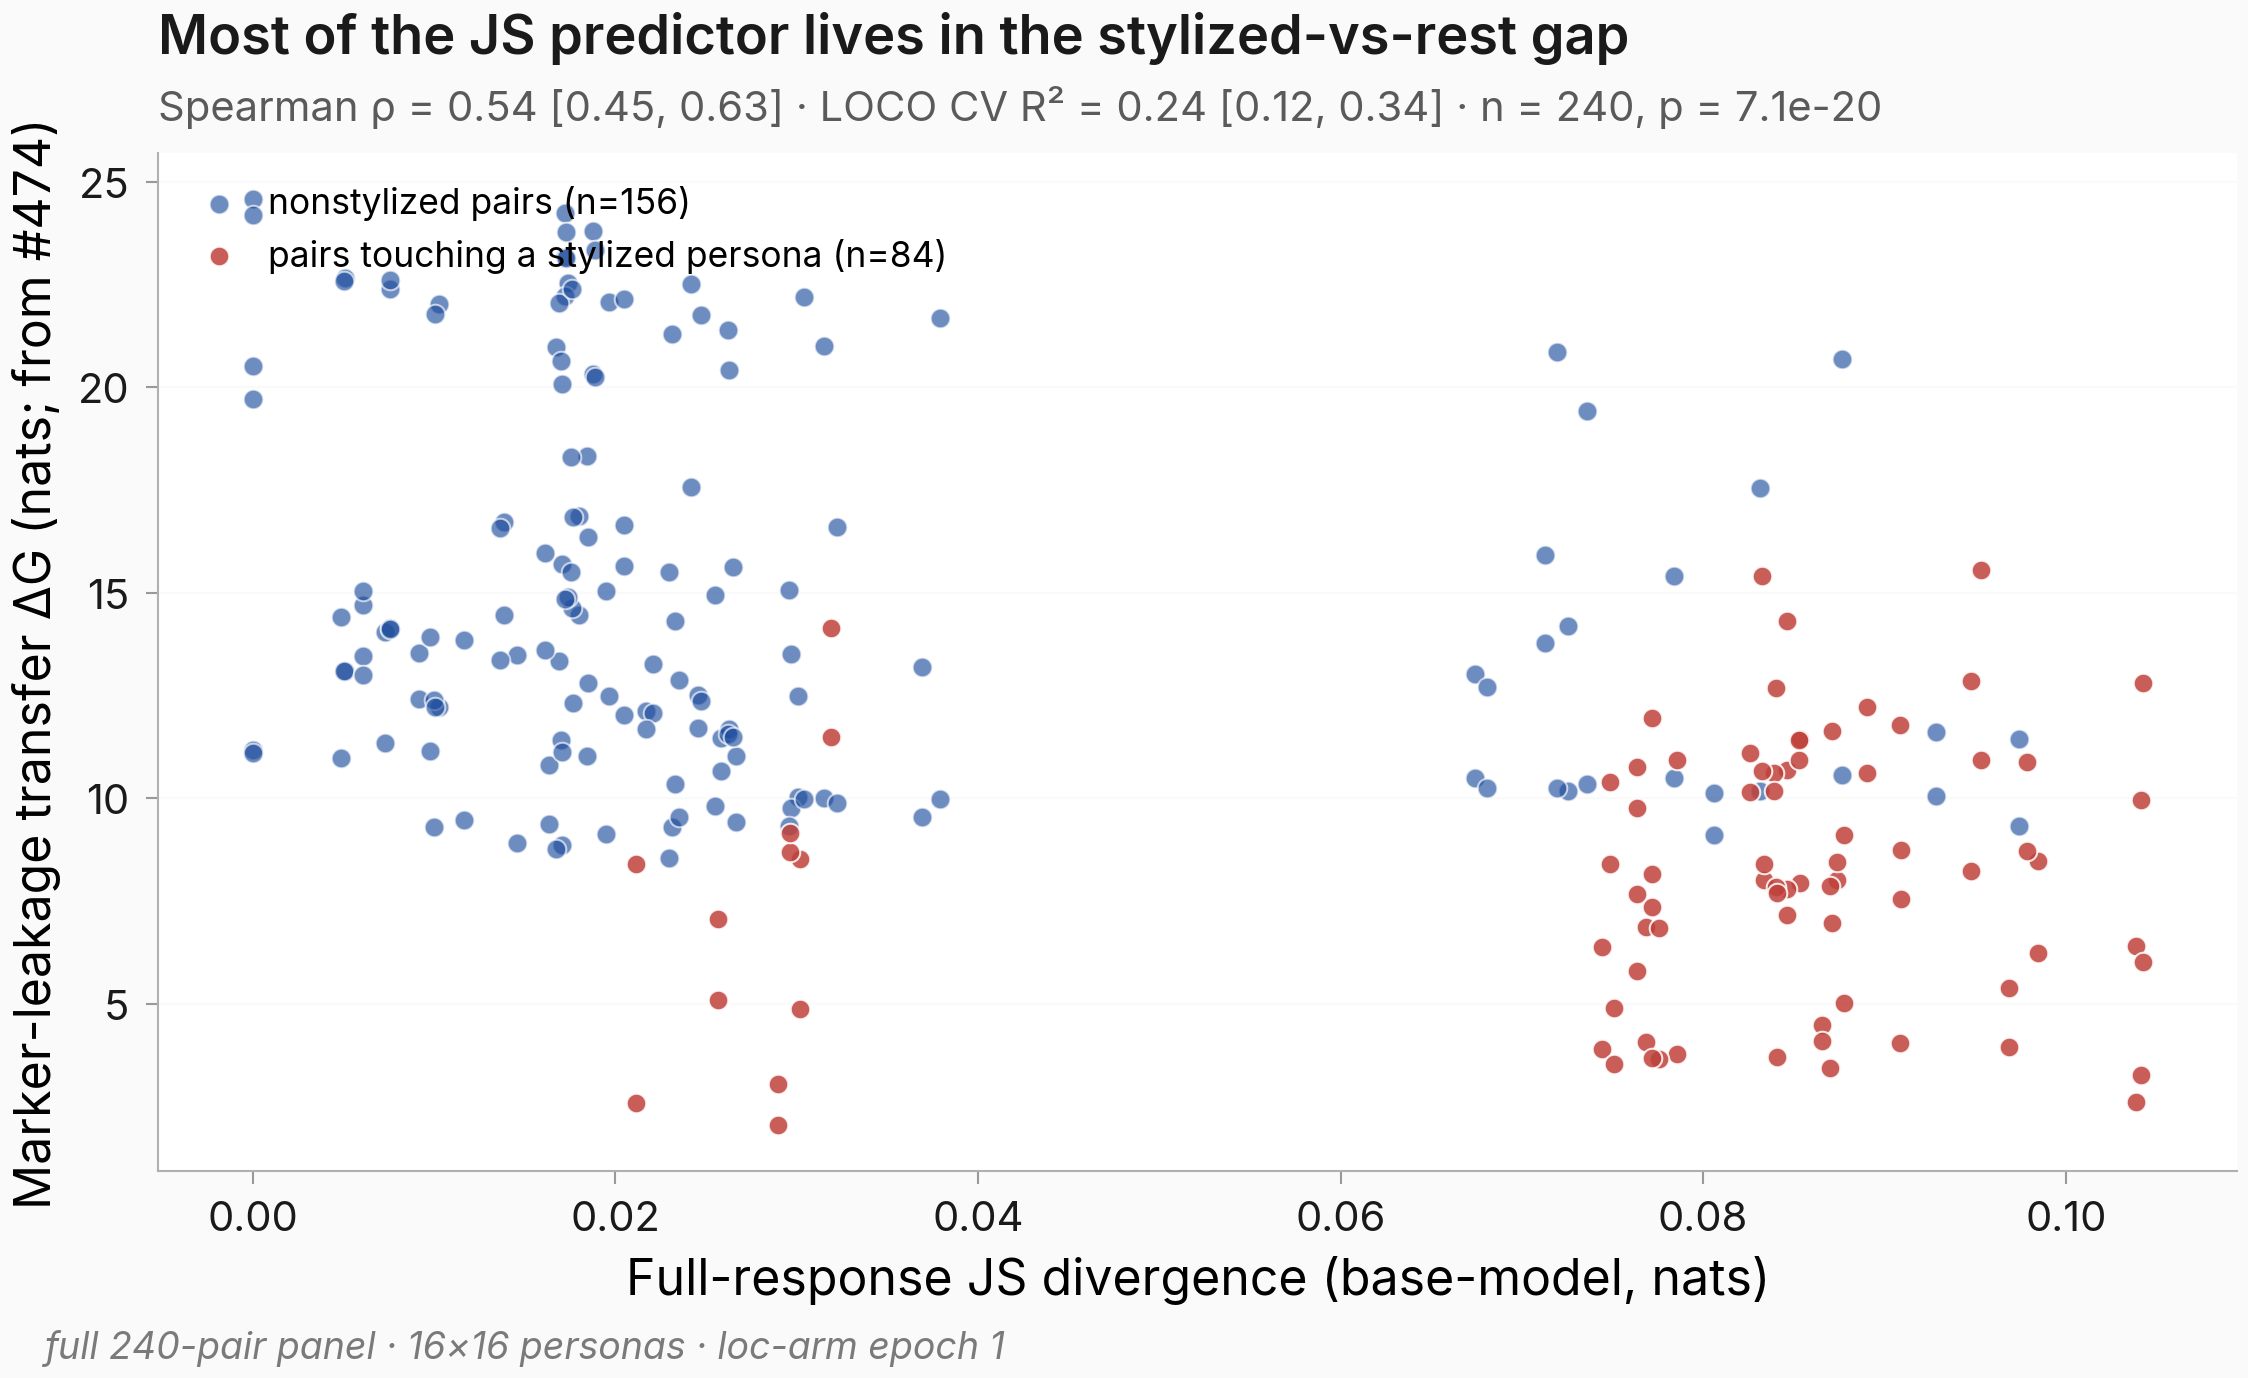
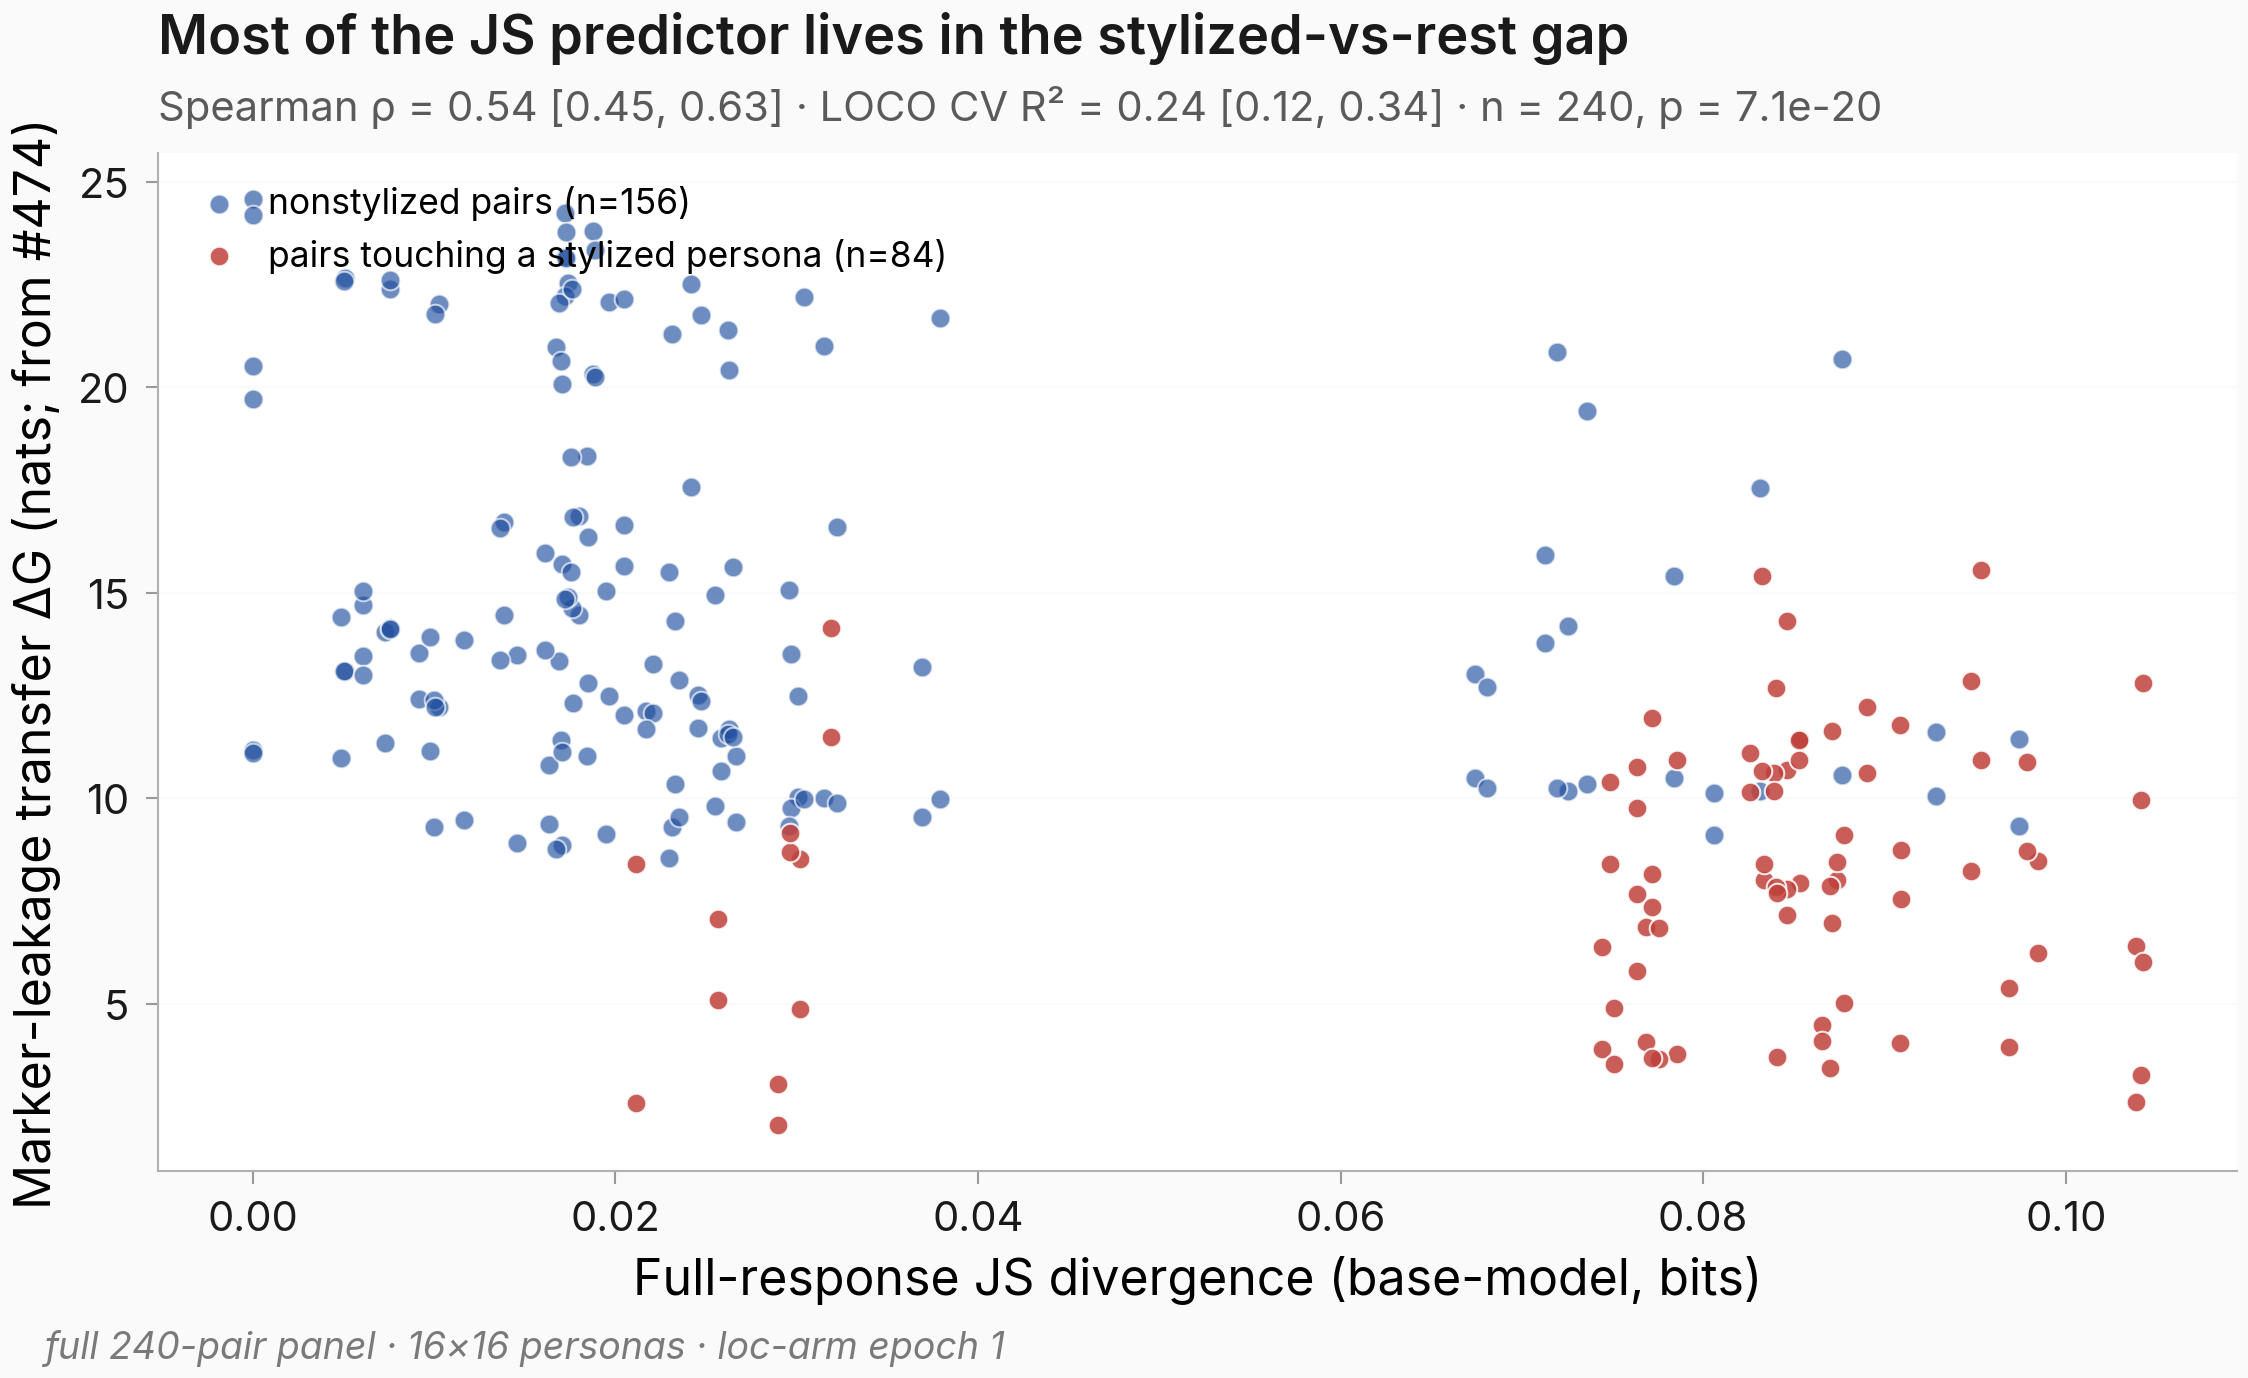
figures: issue #522 round-3 relabel — JS axis to bits, by_panel_epoch title softened
Round-2 critic Lens 6: hero.png x-axis was 'nats', should be 'bits'
(the issue522 JS reducer divides js_nats / log(2) before storing).
by_panel_epoch.png title 'collapses below zero' overclaimed; CIs
straddle zero on the nonstylized subpanel. Title now matches the
softened body prose ('loses any demonstrated skill').

Changed region(s): [[0.2802, 0.9049, 0.8096, 0.9673]]

diff --git a/scripts/issue522_make_figures.py b/scripts/issue522_make_figures.py
@@ -144,7 +144,7 @@ def hero_scatter() -> None:
         linewidths=0.5,
     )
 
-    ax.set_xlabel("Full-response JS divergence (base-model, nats)")
+    ax.set_xlabel("Full-response JS divergence (base-model, bits)")
     ax.set_ylabel("Marker-leakage transfer ΔG (nats; from #474)")
 
     # Anthropic-blog title block
@@ -257,8 +257,8 @@ def by_panel_epoch_bars() -> None:
     ax_cv.legend(loc="upper right", frameon=False, fontsize=8.5)
 
     fig.suptitle(
-        "Drop the three stylized personas and out-of-sample CV R² collapses "
-        "below zero at every training amount",
+        "Drop the three stylized personas and out-of-sample CV R² loses "
+        "any demonstrated skill at every training amount",
         x=0.04,
         y=1.00,
         ha="left",
